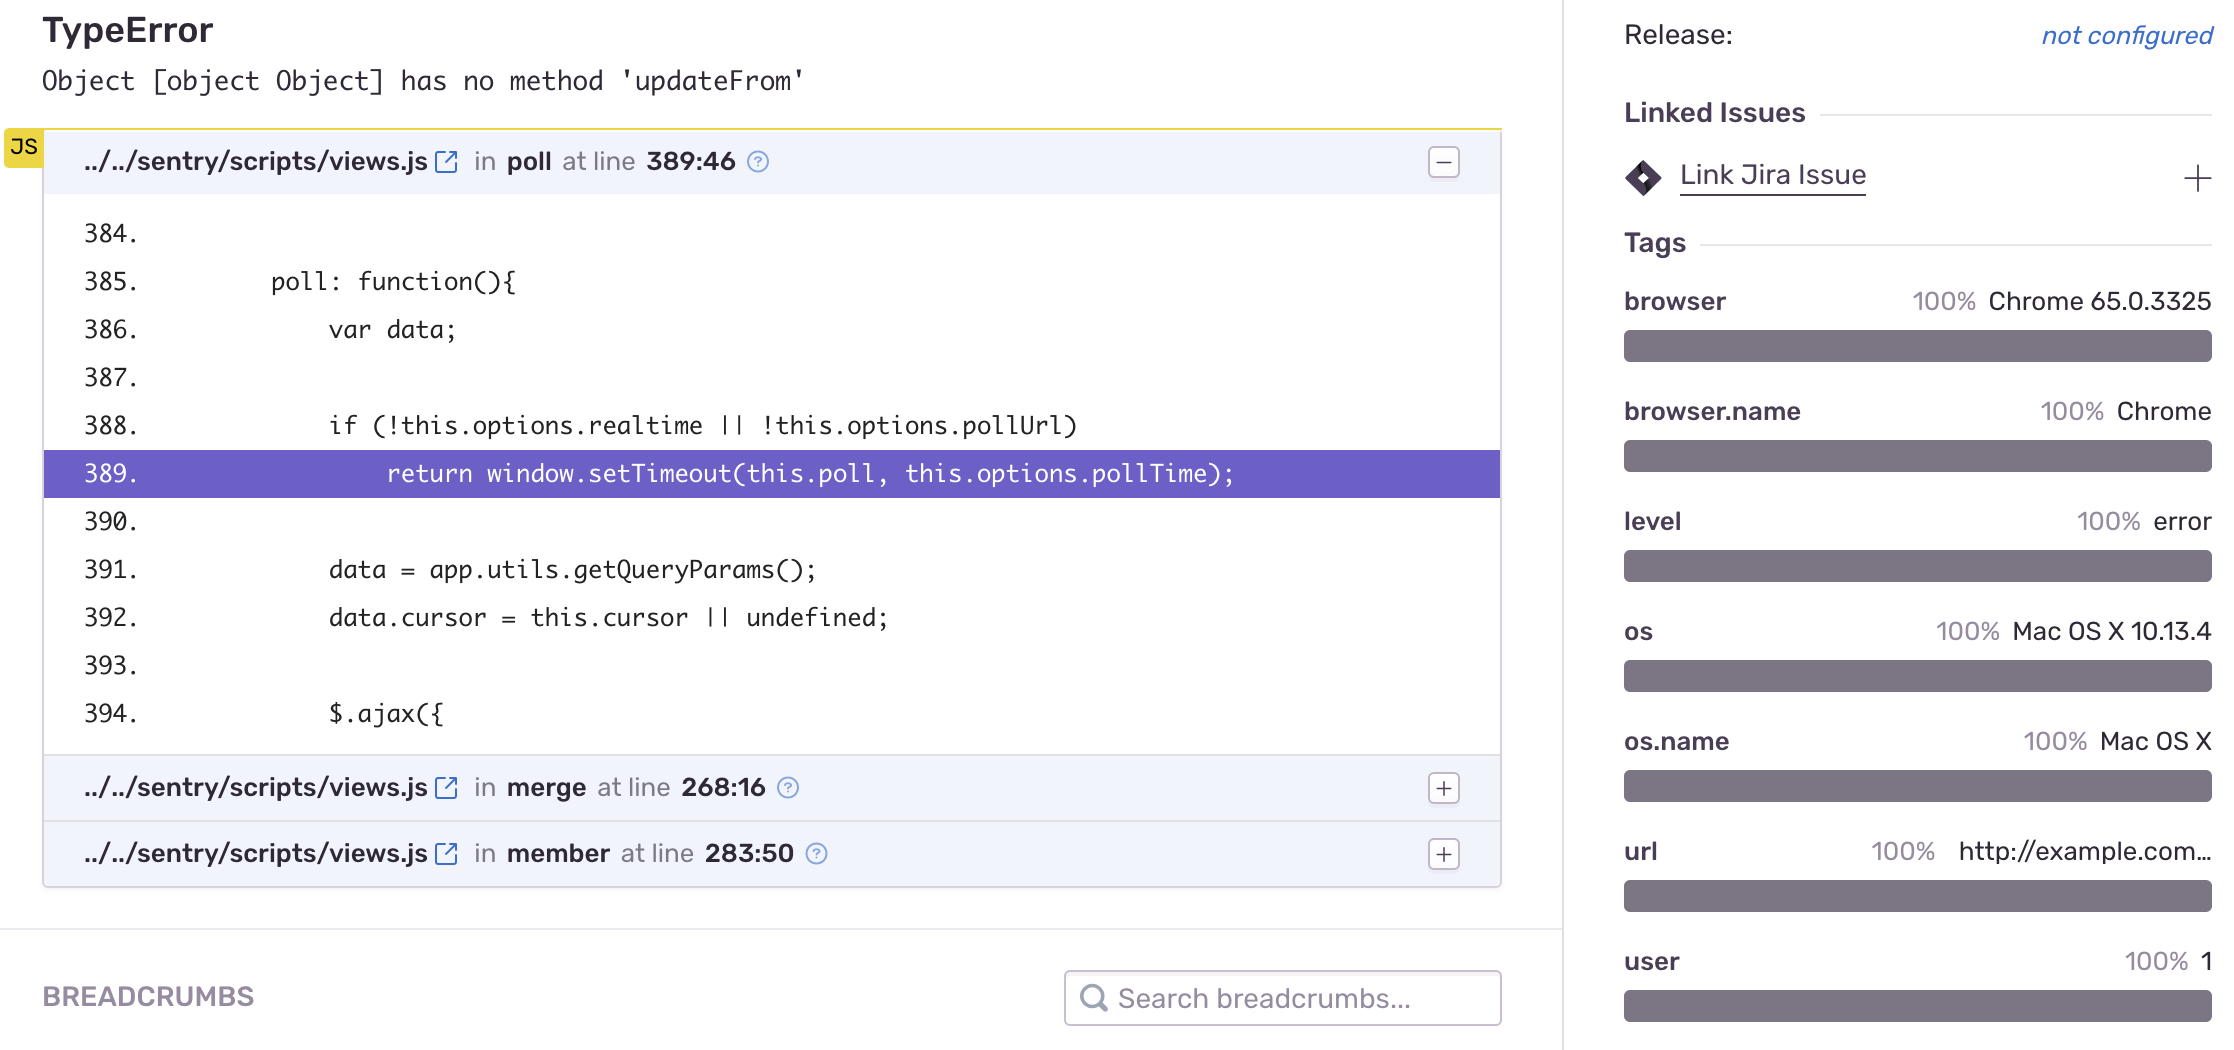
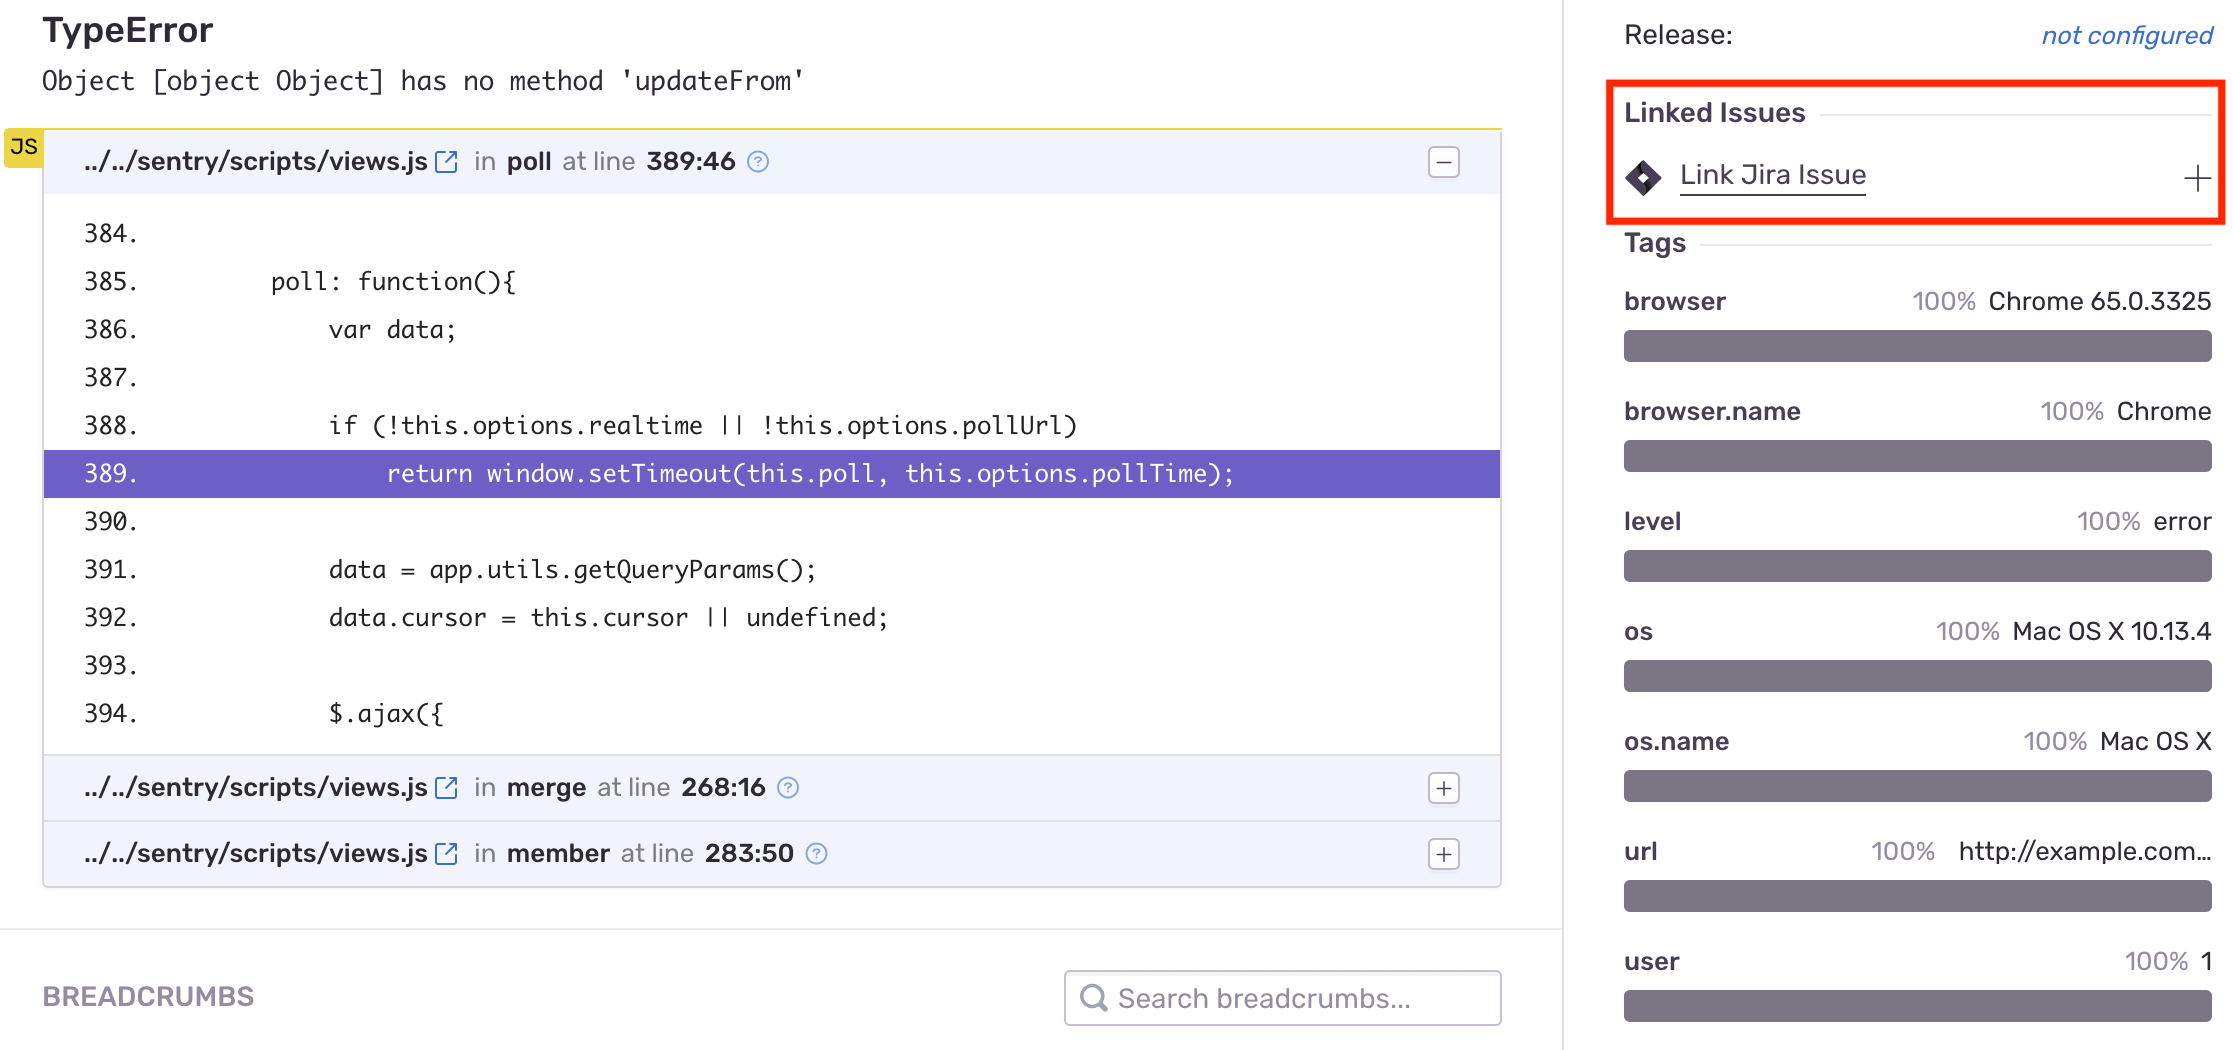
JIRA docs formatting changes (#587)
* Update formatting

* Compress images

Changed region(s): [[0.7104, 0.061, 1.0, 0.2133]]

diff --git a/src/collections/_documentation/workflow/integrations/jira.md b/src/collections/_documentation/workflow/integrations/jira.md
@@ -3,6 +3,8 @@ title: JIRA
 sidebar_order: 8
 ---
 
+Connect errors from Sentry with your Jira issues.
+
 ## Installing Jira with Sentry
 
 {% capture __alert_content -%}
@@ -13,15 +15,15 @@ Sentry owner or manager permissions, and Jira admin permissions are required to 
   content=__alert_content
 %}
 
-1. In Sentry, navigate to Organization Settings > `Integrations`.
-2. Next to Jira, click `Install`.
-3. Click on the `Jira Marketplace` button to begin installing the Sentry app through the Jira marketplace.
-4. Select which Sentry organizations you’d like to use Jira with, and `Save Settings`.
+1. In Sentry, navigate to Organization Settings > **Integrations**.
+2. Next to Jira, click **Install**.
+3. Click on the **Jira Marketplace** button to begin installing the Sentry app through the Jira marketplace.
+4. Select which Sentry organizations you’d like to use Jira with, and **Save Settings**.
 5. In Sentry, you’ll see a new Jira instance appear on the Integrations page.
 
 Jira should now be authorized for all projects under your Sentry organization.
 
-[{% asset jira-install.png %}]({% asset jira-install.png @path %})
+> [{% asset jira-install.png %}]({% asset jira-install.png @path %})
 
 ## Issue Management
 
@@ -35,13 +37,13 @@ Issue management is available for organizations on the Team, Business, and Enter
   content=__alert_content
 %}
 
-To configure Issue management, once you’ve navigated to a specific Sentry issue, you’ll find the `Linked Issues` section on the right hand panel.
+To configure Issue management, once you’ve navigated to a specific Sentry issue, you’ll find the **Linked Issues** section on the right hand panel.
 
-[{% asset jira-link-issue.png %}]({% asset jira-link-issue.png @path %})
+> [{% asset jira-link-issue.png %}]({% asset jira-link-issue.png @path %})
 
 Here, you’ll be able to create or link Jira issues.
 
-[{% asset jira-create-issue.png %}]({% asset jira-create-issue.png @path %})
+> [{% asset jira-create-issue.png %}]({% asset jira-create-issue.png @path %})
 
 ## Issue Sync
 
@@ -55,6 +57,6 @@ Issue sync is available for organizations on the Team, Business, and Enterprise 
   content=__alert_content
 %}
 
-To configure Issue sync, navigate to Organization Settings > `Integrations`, and click `Configure` next to your Jira instance. On the following page, you’ll see options of what information you’d like synced between Sentry and Jira.
+To configure Issue sync, navigate to Organization Settings > **Integrations**, and click **Configure** next to your Jira instance. On the following page, you’ll see options of what information you’d like synced between Sentry and Jira.
 
-[{% asset jira-sync.png %}]({% asset jira-sync.png @path %})
+> [{% asset jira-sync.png %}]({% asset jira-sync.png @path %})
